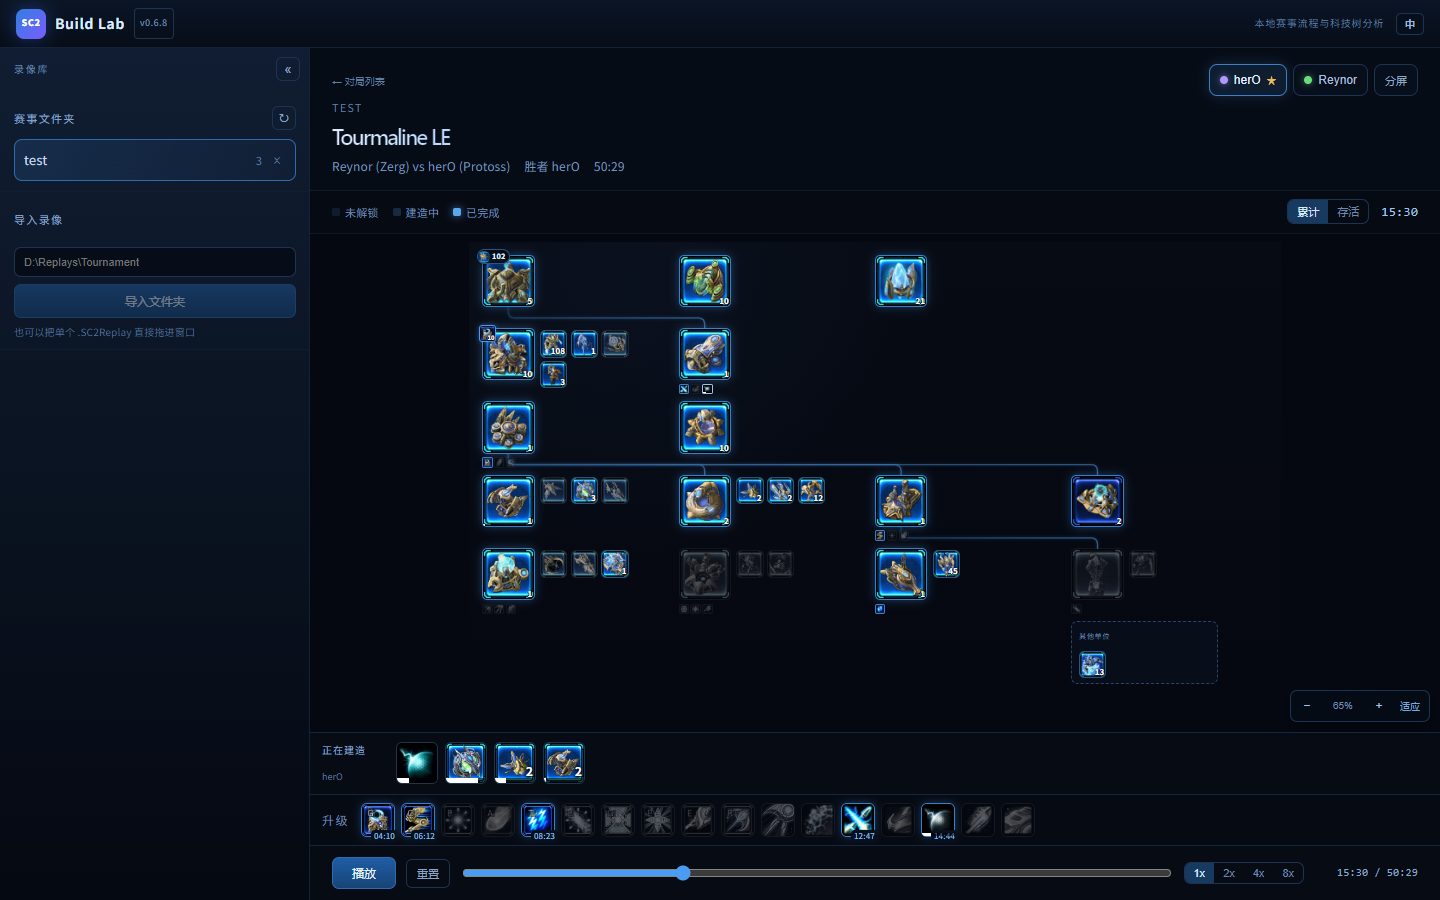
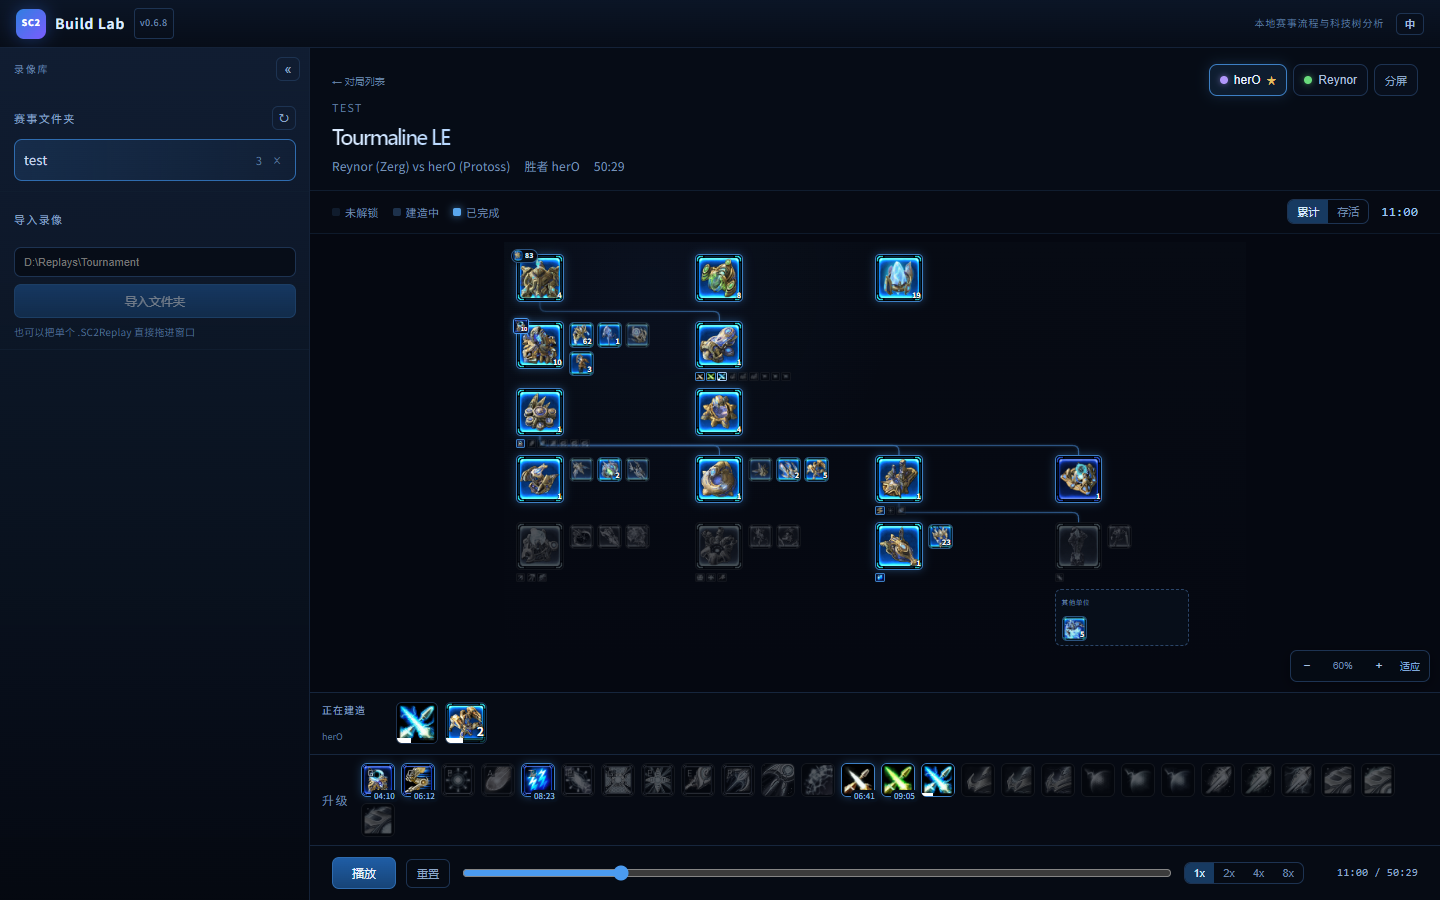
ui: show all upgrade levels with completion times

diff --git a/vue-app/src/data/upgrades.ts b/vue-app/src/data/upgrades.ts
@@ -1,5 +1,5 @@
 import type { EventItem, Race, TechTiming } from '../types-analysis'
-import { resolveItem, type CatalogItem } from './catalog'
+import { resolveItem } from './catalog'
 
 /**
  * Which building researches which upgrades. Used to echo the upgrade strip
@@ -162,141 +162,6 @@ export function computeUpgradeStates(
       progress,
       indeterminate: active && done === undefined,
     }
-  }
-  return result
-}
-const LEVEL_UPGRADE_FAMILIES: string[][] = [
-  [
-    'ProtossGroundWeaponsLevel1',
-    'ProtossGroundWeaponsLevel2',
-    'ProtossGroundWeaponsLevel3',
-  ],
-  [
-    'ProtossGroundArmorsLevel1',
-    'ProtossGroundArmorsLevel2',
-    'ProtossGroundArmorsLevel3',
-  ],
-  [
-    'ProtossPlasmaShieldsLevel1',
-    'ProtossPlasmaShieldsLevel2',
-    'ProtossPlasmaShieldsLevel3',
-  ],
-  [
-    'ProtossAirWeaponsLevel1',
-    'ProtossAirWeaponsLevel2',
-    'ProtossAirWeaponsLevel3',
-  ],
-  [
-    'ProtossAirArmorsLevel1',
-    'ProtossAirArmorsLevel2',
-    'ProtossAirArmorsLevel3',
-  ],
-  [
-    'TerranInfantryWeaponsLevel1',
-    'TerranInfantryWeaponsLevel2',
-    'TerranInfantryWeaponsLevel3',
-  ],
-  [
-    'TerranInfantryArmorsLevel1',
-    'TerranInfantryArmorsLevel2',
-    'TerranInfantryArmorsLevel3',
-  ],
-  [
-    'TerranVehicleWeaponsLevel1',
-    'TerranVehicleWeaponsLevel2',
-    'TerranVehicleWeaponsLevel3',
-  ],
-  [
-    'TerranShipWeaponsLevel1',
-    'TerranShipWeaponsLevel2',
-    'TerranShipWeaponsLevel3',
-  ],
-  [
-    'TerranVehicleAndShipArmorsLevel1',
-    'TerranVehicleAndShipArmorsLevel2',
-    'TerranVehicleAndShipArmorsLevel3',
-  ],
-  ['ZergMeleeWeaponsLevel1', 'ZergMeleeWeaponsLevel2', 'ZergMeleeWeaponsLevel3'],
-  ['ZergMissileWeaponsLevel1', 'ZergMissileWeaponsLevel2', 'ZergMissileWeaponsLevel3'],
-  ['ZergGroundArmorsLevel1', 'ZergGroundArmorsLevel2', 'ZergGroundArmorsLevel3'],
-  ['ZergFlyerWeaponsLevel1', 'ZergFlyerWeaponsLevel2', 'ZergFlyerWeaponsLevel3'],
-  ['ZergFlyerArmorsLevel1', 'ZergFlyerArmorsLevel2', 'ZergFlyerArmorsLevel3'],
-]
-
-const levelFamily = new Map<string, string[]>()
-for (const family of LEVEL_UPGRADE_FAMILIES) {
-  for (const key of family) levelFamily.set(key, family)
-}
-
-export function upgradeFamily(key: string): string[] | undefined {
-  return levelFamily.get(key)
-}
-
-export interface CollapsedUpgrade {
-  item: CatalogItem
-  activeItem?: CatalogItem
-  doneAt?: number
-  active: boolean
-  progress: number
-  indeterminate: boolean
-}
-
-/**
- * Attack/armor upgrades have three level icons. Collapse a family to the
- * highest completed level, and use the same icon for a higher level that is
- * currently being researched.
- */
-export function collapseUpgradeKeys(
-  keys: string[],
-  states: Record<string, UpgradeState>,
-): CollapsedUpgrade | undefined {
-  const levels = keys
-    .map((key, index) => ({ key, index, item: resolveItem(key) }))
-    .filter(
-      (level): level is { key: string; index: number; item: CatalogItem } =>
-        Boolean(level.item),
-    )
-  if (!levels.length) return undefined
-
-  const done = levels
-    .filter((level) => states[level.key]?.doneAt !== undefined)
-    .sort((a, b) => b.index - a.index)[0]
-  const active = levels
-    .filter((level) => states[level.key]?.active)
-    .sort((a, b) => b.index - a.index)[0]
-  const display = done ?? active ?? levels[0]
-  const activeItem =
-    active && (!done || active.index > done.index) ? active.item : undefined
-  const activeState = activeItem && active ? states[active.key] : undefined
-
-  return {
-    item: display.item,
-    activeItem,
-    doneAt: done ? states[done.key]?.doneAt : undefined,
-    active: Boolean(activeItem),
-    progress: activeState?.progress || 0,
-    indeterminate: Boolean(activeState?.indeterminate),
-  }
-}
-
-export function collapseUpgrades(
-  items: CatalogItem[],
-  states: Record<string, UpgradeState>,
-): CollapsedUpgrade[] {
-  const result: CollapsedUpgrade[] = []
-  const seenFamilies = new Set<string>()
-
-  for (const item of items) {
-    const family = levelFamily.get(item.key)
-    if (family) {
-      if (seenFamilies.has(family[0])) continue
-      seenFamilies.add(family[0])
-      const collapsed = collapseUpgradeKeys(family, states)
-      if (collapsed) result.push(collapsed)
-      continue
-    }
-    const collapsed = collapseUpgradeKeys([item.key], states)
-    if (collapsed) result.push(collapsed)
   }
   return result
 }

diff --git a/vue-app/src/components/analysis/TechTreeCanvas.vue b/vue-app/src/components/analysis/TechTreeCanvas.vue
@@ -135,9 +135,7 @@ import { computed } from 'vue'
 import type { EventItem, Race, TechTiming, UnitLifecycle } from '../../types-analysis'
 import { formatClock, iconUrl, resolveItem, techTrees, type CatalogItem } from '../../data/catalog'
 import {
-  collapseUpgradeKeys,
   computeUpgradeStates,
-  upgradeFamily,
   UPGRADE_BUILDINGS,
 } from '../../data/upgrades'
 import { CELL_W, CELL_W_COMPACT, MARGIN, ROW_H } from '../../data/layout'
@@ -168,7 +166,6 @@ interface BuildingCounter {
 interface UpgradeChip {
   key: string
   item: CatalogItem
-  activeItem?: CatalogItem
   done: boolean
   doneAt?: number
   active: boolean
@@ -415,28 +412,23 @@ const buildingUpgrades = computed(() => {
   const result: Record<string, UpgradeChip[]> = {}
   for (const [buildingKey, keys] of Object.entries(map)) {
     const chips: UpgradeChip[] = []
-    const seenFamilies = new Set<string>()
     for (const key of keys) {
-      const family = upgradeFamily(key)
-      if (family) {
-        if (seenFamilies.has(family[0])) continue
-        seenFamilies.add(family[0])
-      }
-      const collapsed = collapseUpgradeKeys(family || [key], upgradeStates.value)
-      if (!collapsed) continue
+      const item = resolveItem(key)
+      if (!item) continue
+      const state = upgradeStates.value[item.key]
+      const doneAt = state?.doneAt
       chips.push({
-        key: collapsed.item.key,
-        item: collapsed.item,
-        activeItem: collapsed.activeItem,
-        done: collapsed.doneAt !== undefined,
-        doneAt: collapsed.doneAt,
-        active: collapsed.active,
-        progress: collapsed.progress,
-        indeterminate: collapsed.indeterminate,
+        key: item.key,
+        item,
+        done: doneAt !== undefined,
+        doneAt,
+        active: Boolean(state?.active),
+        progress: state?.progress || 0,
+        indeterminate: Boolean(state?.indeterminate),
         flash:
-          collapsed.doneAt !== undefined &&
-          props.time >= collapsed.doneAt &&
-          props.time - collapsed.doneAt < flashWindow.value,
+          doneAt !== undefined &&
+          props.time >= doneAt &&
+          props.time - doneAt < flashWindow.value,
       })
     }
     if (chips.length) result[buildingKey] = chips
@@ -583,13 +575,8 @@ function tooltip(item: CatalogItem, count?: number): string {
 
 function chipTitle(chip: UpgradeChip): string {
   const name = displayName(chip.item)
-  const target = chip.activeItem ? displayName(chip.activeItem) : ''
-  if (chip.doneAt !== undefined) {
-    return target
-      ? `${name} · ${formatClock(chip.doneAt)} · ${target} 建造中`
-      : `${name} · ${formatClock(chip.doneAt)}`
-  }
-  if (chip.active) return `${target || name} · 建造中`
+  if (chip.doneAt !== undefined) return `${name} · ${formatClock(chip.doneAt)}`
+  if (chip.active) return `${name} · 建造中`
   return name
 }
 </script>

diff --git a/vue-app/src/components/analysis/UpgradeStrip.vue b/vue-app/src/components/analysis/UpgradeStrip.vue
@@ -41,12 +41,8 @@
 <script setup lang="ts">
 import { computed } from 'vue'
 import type { UpgradeStripRow } from '../../types-analysis'
-import { formatClock, itemIconUrl, upgradeItems } from '../../data/catalog'
-import {
-  collapseUpgrades,
-  computeUpgradeStates,
-  type CollapsedUpgrade,
-} from '../../data/upgrades'
+import { formatClock, itemIconUrl, upgradeItems, type CatalogItem } from '../../data/catalog'
+import { computeUpgradeStates } from '../../data/upgrades'
 import { useLanguage } from '../../composables/useLanguage'
 
 const props = defineProps<{
@@ -58,19 +54,26 @@ const { displayName } = useLanguage()
 const resolvedRows = computed(() =>
   props.rows.map((row) => {
     const states = computeUpgradeStates(row.tech, row.orders, props.time)
-    return { ...row, items: collapseUpgrades(upgradeItems(row.race), states) }
+    const items = upgradeItems(row.race).map((item) => {
+      const state = states[item.key]
+      return {
+        item,
+        doneAt: state?.doneAt,
+        active: Boolean(state?.active),
+        progress: state?.progress ?? 0,
+        indeterminate: Boolean(state?.indeterminate),
+      }
+    })
+    return { ...row, items }
   }),
 )
 
-function tooltip(entry: CollapsedUpgrade): string {
+function tooltip(entry: { item: CatalogItem; doneAt?: number; active: boolean }): string {
   const name = displayName(entry.item)
-  const target = entry.activeItem ? displayName(entry.activeItem) : ''
   if (entry.doneAt !== undefined) {
-    return target
-      ? `${name} · ${formatClock(entry.doneAt)} · ${target} 建造中`
-      : `${name} · ${formatClock(entry.doneAt)}`
+    return `${name} · ${formatClock(entry.doneAt)}`
   }
-  if (entry.active) return `${target || name} · 建造中`
+  if (entry.active) return `${name} · 建造中`
   return name
 }
 </script>

diff --git a/vue-app/src/components/analysis/ReplayLibrary.vue b/vue-app/src/components/analysis/ReplayLibrary.vue
@@ -100,7 +100,6 @@
 <script setup lang="ts">
 import type { FolderReplay, FolderReplayPlayer } from '../../types-analysis'
 import { AUTO_SPAWNED_UNITS, formatClock, iconUrl, itemIconUrl, raceFromName, resolveItem } from '../../data/catalog'
-import { upgradeFamily } from '../../data/upgrades'
 import { useLanguage } from '../../composables/useLanguage'
 
 defineProps<{
@@ -150,45 +149,8 @@ function unitPreview(player: FolderReplayPlayer) {
   return [...grouped.values()]
 }
 
-interface TechEntry {
-  tech: string
-  t_sec: number
-  phase: 'early' | 'mid' | 'late'
-}
-
-function collapsedTech(player: FolderReplayPlayer): TechEntry[] {
-  const singles: TechEntry[] = []
-  const families = new Map<string, { entry: TechEntry; index: number }>()
-
-  for (const phase of phases) {
-    for (const tech of player.tech[phase.key]) {
-      const item = resolveItem(tech.tech)
-      if (!item) continue
-      const entry: TechEntry = { tech: tech.tech, t_sec: tech.t_sec, phase: phase.key }
-      const family = upgradeFamily(item.key)
-      if (!family) {
-        singles.push(entry)
-        continue
-      }
-      const index = family.indexOf(item.key)
-      const current = families.get(family[0])
-      if (
-        !current ||
-        index > current.index ||
-        (index === current.index && tech.t_sec < current.entry.t_sec)
-      ) {
-        families.set(family[0], { entry, index })
-      }
-    }
-  }
-
-  return [...singles, ...[...families.values()].map((value) => value.entry)].sort(
-    (a, b) => a.t_sec - b.t_sec,
-  )
-}
-
 function phaseTech(player: FolderReplayPlayer, phase: 'early' | 'mid' | 'late') {
-  return collapsedTech(player).filter((tech) => tech.phase === phase)
+  return player.tech[phase].filter((tech) => resolveItem(tech.tech))
 }
 
 function techIcon(tech: string): string {

diff --git a/README.md b/README.md
@@ -18,8 +18,8 @@ desktop build can read the build order aloud and show a compact in-game overlay.
 - Unified construction strip: buildings, unit training, Zerg morphs, active
   upgrades and Carrier interceptors. Voice announcements skip auto-spawned
   units such as interceptors.
-- Attack/armor lines collapse to one icon (current level), with a progress bar
-  while the next level is being researched.
+- All upgrade levels are shown with their completion times; research progress
+  is shown under the icon being researched.
 - Chinese / English switch that also drives voice language and display names.
 - Voice reader and a click-through overlay for windowed / borderless SC2.
 - Everything runs locally: no cloud service or account.
